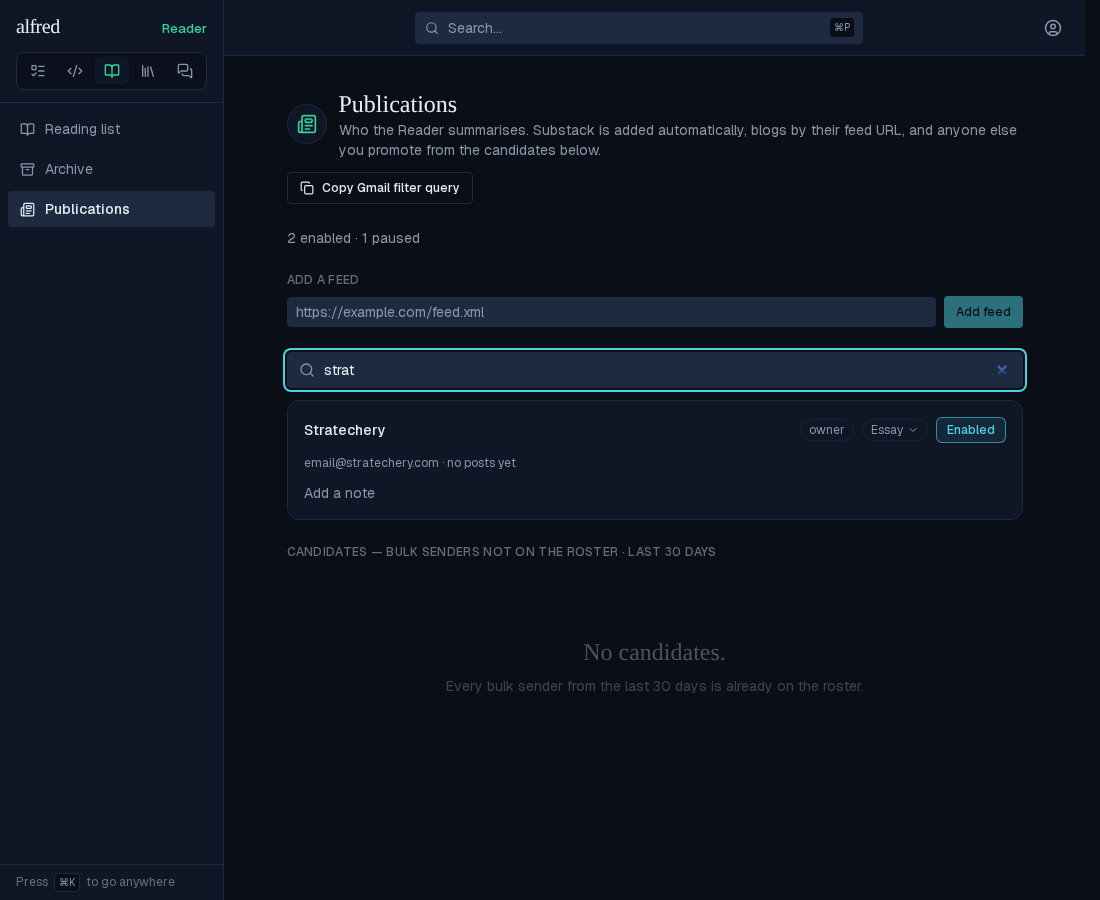
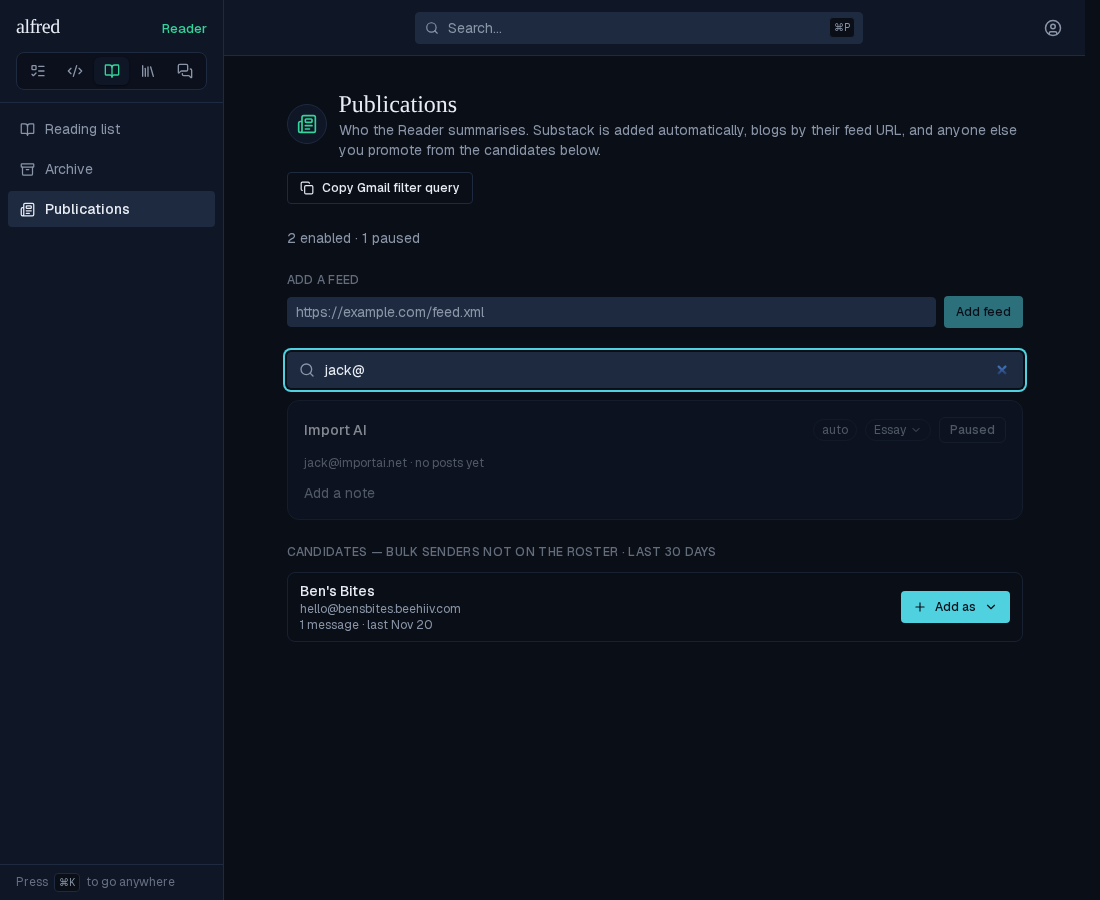
docs(demos): recapture publications search demo with candidates and handle match

diff --git a/docs/demos/alf-358-publications-search/publications-search.md b/docs/demos/alf-358-publications-search/publications-search.md
@@ -4,15 +4,15 @@ branch: claude/publications-search-reader-ohj3s5
 
 # Reader: search the publications roster
 
-*2026-11-20T03:11:47.323Z*
+*2026-11-20T03:26:14.933Z*
 
-ALF-358 adds a search box over the publications roster at /reader/publications. Typing filters the roster cards with a case-insensitive substring match on name, handle, domain, feed URL and note. The enabled/paused counts and the Gmail filter button still describe the whole roster, and the candidates are never filtered. The shots below come from the live app at the real route, driven by Playwright against the in-memory Supabase mock with three publications seeded.
+ALF-358 adds a search box over the publications roster at /reader/publications. Typing filters the roster cards with a case-insensitive substring match on name, handle, domain, feed URL and note. The enabled/paused counts and the Gmail filter button still describe the whole roster, and the candidates are never filtered. When a publication joins the roster (a feed added, a candidate promoted), the query clears so the new card can't hide behind it. The shots below come from the live app at the real route, driven by Playwright against the in-memory Supabase mock with three publications and one candidate seeded.
 
-**Before:** the full roster of three publications (one paused), with the new search box above the cards.
+**Before:** the full roster of three publications (one paused), the new search box above the cards, and Ben's Bites as a candidate.
 
 ![](publications-search-image-1.png)
 
-**Typing `strat`:** only Stratechery is left. The count line still reads 2 enabled · 1 paused.
+**Typing `jack@`, a handle-only match:** only Import AI (jack@importai.net) is left. The count line still reads 2 enabled · 1 paused, and the Ben's Bites candidate is untouched.
 
 ![](publications-search-image-2.png)
 
@@ -20,16 +20,20 @@ ALF-358 adds a search box over the publications roster at /reader/publications. 
 
 ![](publications-search-image-3.png)
 
-**Tests.** The matcher's unit tests and the view's search tests (filter, match on handle and feed URL, clear restores, no-match state, counts unchanged, candidates untouched, no box on an empty roster):
+**Promoting Ben's Bites with the query still in:** the roster grows, the query clears, and the new card shows alongside the rest (3 enabled · 1 paused).
+
+![](publications-search-image-4.png)
+
+**Tests.** The matcher's unit tests and the view's search tests (filter, match on handle and feed URL, clear restores, no-match state, counts unchanged, candidates untouched, query cleared on a roster add, no box on an empty roster):
 
 ```bash
 npm run -s test -w frontend -- components/reader/publications-search components/reader/publications-view -t 'matchesPublicationQuery|search' 2>&1 | grep -E '^Tests:'
 ```
 
 ```output
-Tests:       35 skipped, 15 passed, 50 total
+Tests:       35 skipped, 16 passed, 51 total
 ```
 
 **Visual baselines.** The search box sits above the cards, so every Storybook baseline with a populated roster moves down by one field. Below is the Populated story's diff (baseline | changed pixels | new render); the other seven move the same way. A new `Searched` story pins the narrowed state.
 
-![](publications-search-image-4.png)
+![](publications-search-image-5.png)
